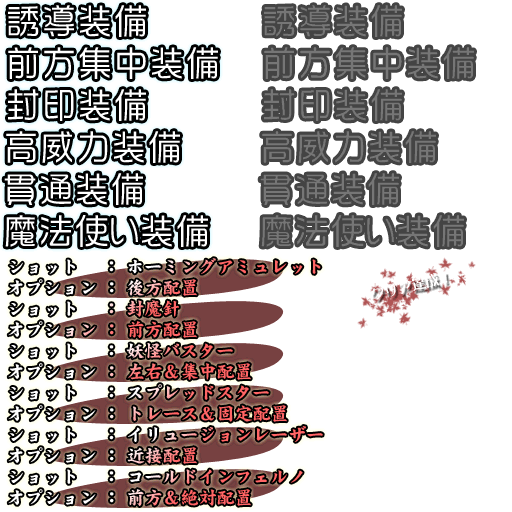
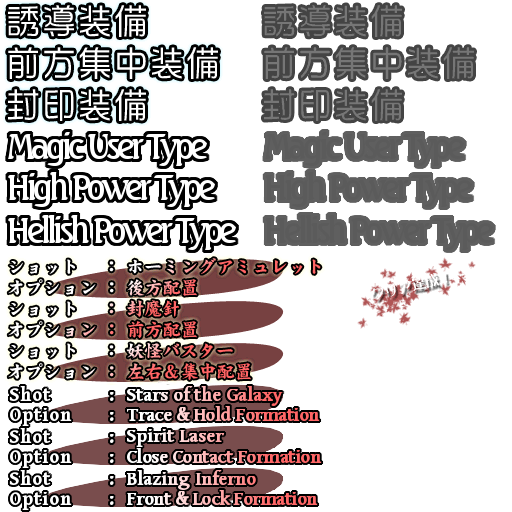
Weapon Desc. Change

Changed region(s): [[0.0, 0.75, 0.6562, 1.0], [0.5, 0.25, 0.9688, 0.5], [0.0, 0.25, 0.4688, 0.5]]

diff --git a/mima/files.js b/mima/files.js
@@ -164,7 +164,7 @@
 	"th10/loading/sig_r.png": 3527927137,
 	"th10/player/pl01/pl01.png": 1530013223,
 	"th10/title/sl_pl01.png": 1613685986,
-	"th10/title/weapon.png": 2617416733,
+	"th10/title/weapon.png": 382644892,
 	"th11/face/pl01/face_pl01an.png": 4193369170,
 	"th11/face/pl01/face_pl01dp.png": 641502556,
 	"th11/face/pl01/face_pl01hp.png": 789502312,
